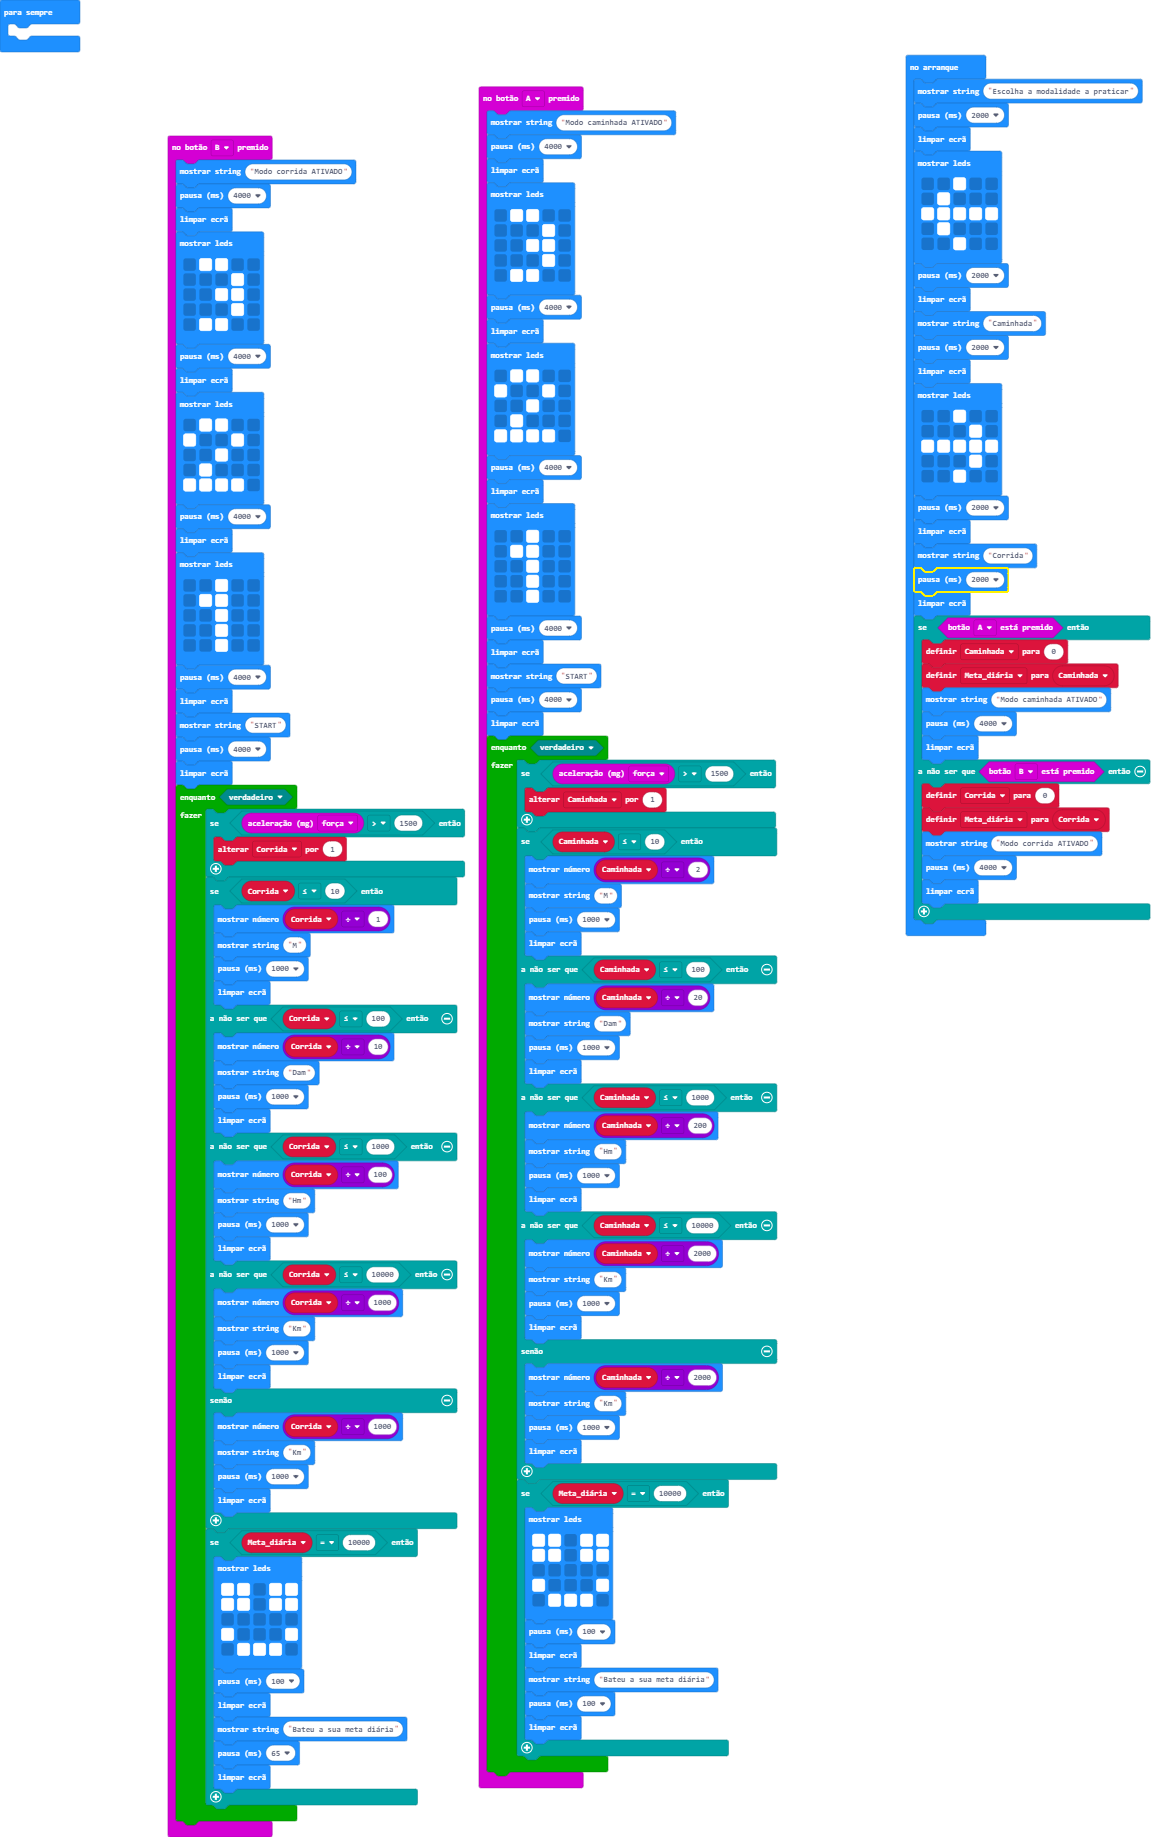
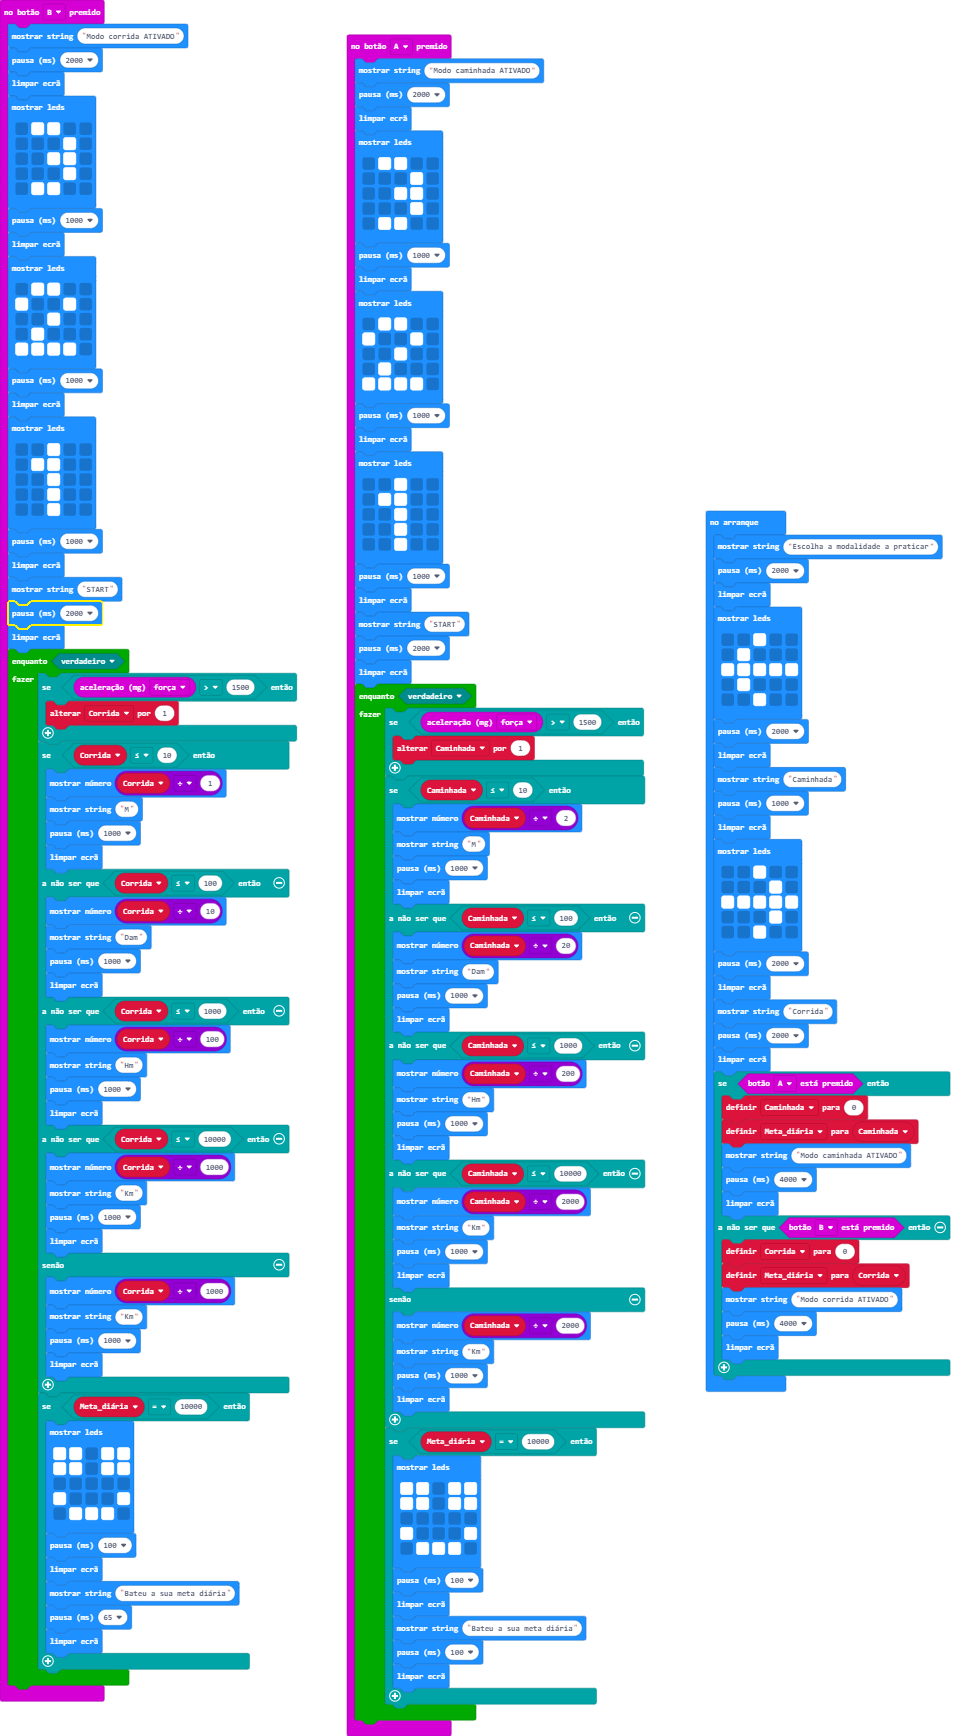
Update main.blocks, main.ts

diff --git a/main.ts b/main.ts
@@ -1,6 +1,6 @@
 input.onButtonPressed(Button.A, function () {
     basic.showString("Modo caminhada ATIVADO")
-    basic.pause(4000)
+    basic.pause(2000)
     basic.clearScreen()
     basic.showLeds(`
         . # # . .
@@ -9,7 +9,7 @@ input.onButtonPressed(Button.A, function () {
         . . . # .
         . # # . .
         `)
-    basic.pause(4000)
+    basic.pause(1000)
     basic.clearScreen()
     basic.showLeds(`
         . # # . .
@@ -18,7 +18,7 @@ input.onButtonPressed(Button.A, function () {
         . # . . .
         # # # # .
         `)
-    basic.pause(4000)
+    basic.pause(1000)
     basic.clearScreen()
     basic.showLeds(`
         . . # . .
@@ -27,10 +27,10 @@ input.onButtonPressed(Button.A, function () {
         . . # . .
         . . # . .
         `)
-    basic.pause(4000)
+    basic.pause(1000)
     basic.clearScreen()
     basic.showString("START")
-    basic.pause(4000)
+    basic.pause(2000)
     basic.clearScreen()
     while (true) {
         if (input.acceleration(Dimension.Strength) > 1500) {
@@ -80,7 +80,7 @@ input.onButtonPressed(Button.A, function () {
 })
 input.onButtonPressed(Button.B, function () {
     basic.showString("Modo corrida ATIVADO")
-    basic.pause(4000)
+    basic.pause(2000)
     basic.clearScreen()
     basic.showLeds(`
         . # # . .
@@ -89,7 +89,7 @@ input.onButtonPressed(Button.B, function () {
         . . . # .
         . # # . .
         `)
-    basic.pause(4000)
+    basic.pause(1000)
     basic.clearScreen()
     basic.showLeds(`
         . # # . .
@@ -98,7 +98,7 @@ input.onButtonPressed(Button.B, function () {
         . # . . .
         # # # # .
         `)
-    basic.pause(4000)
+    basic.pause(1000)
     basic.clearScreen()
     basic.showLeds(`
         . . # . .
@@ -107,10 +107,10 @@ input.onButtonPressed(Button.B, function () {
         . . # . .
         . . # . .
         `)
-    basic.pause(4000)
+    basic.pause(1000)
     basic.clearScreen()
     basic.showString("START")
-    basic.pause(4000)
+    basic.pause(2000)
     basic.clearScreen()
     while (true) {
         if (input.acceleration(Dimension.Strength) > 1500) {
@@ -174,7 +174,7 @@ basic.showLeds(`
 basic.pause(2000)
 basic.clearScreen()
 basic.showString("Caminhada")
-basic.pause(2000)
+basic.pause(1000)
 basic.clearScreen()
 basic.showLeds(`
     . . # . .
@@ -201,6 +201,3 @@ if (input.buttonIsPressed(Button.A)) {
     basic.pause(4000)
     basic.clearScreen()
 }
-basic.forever(function () {
-	
-})
